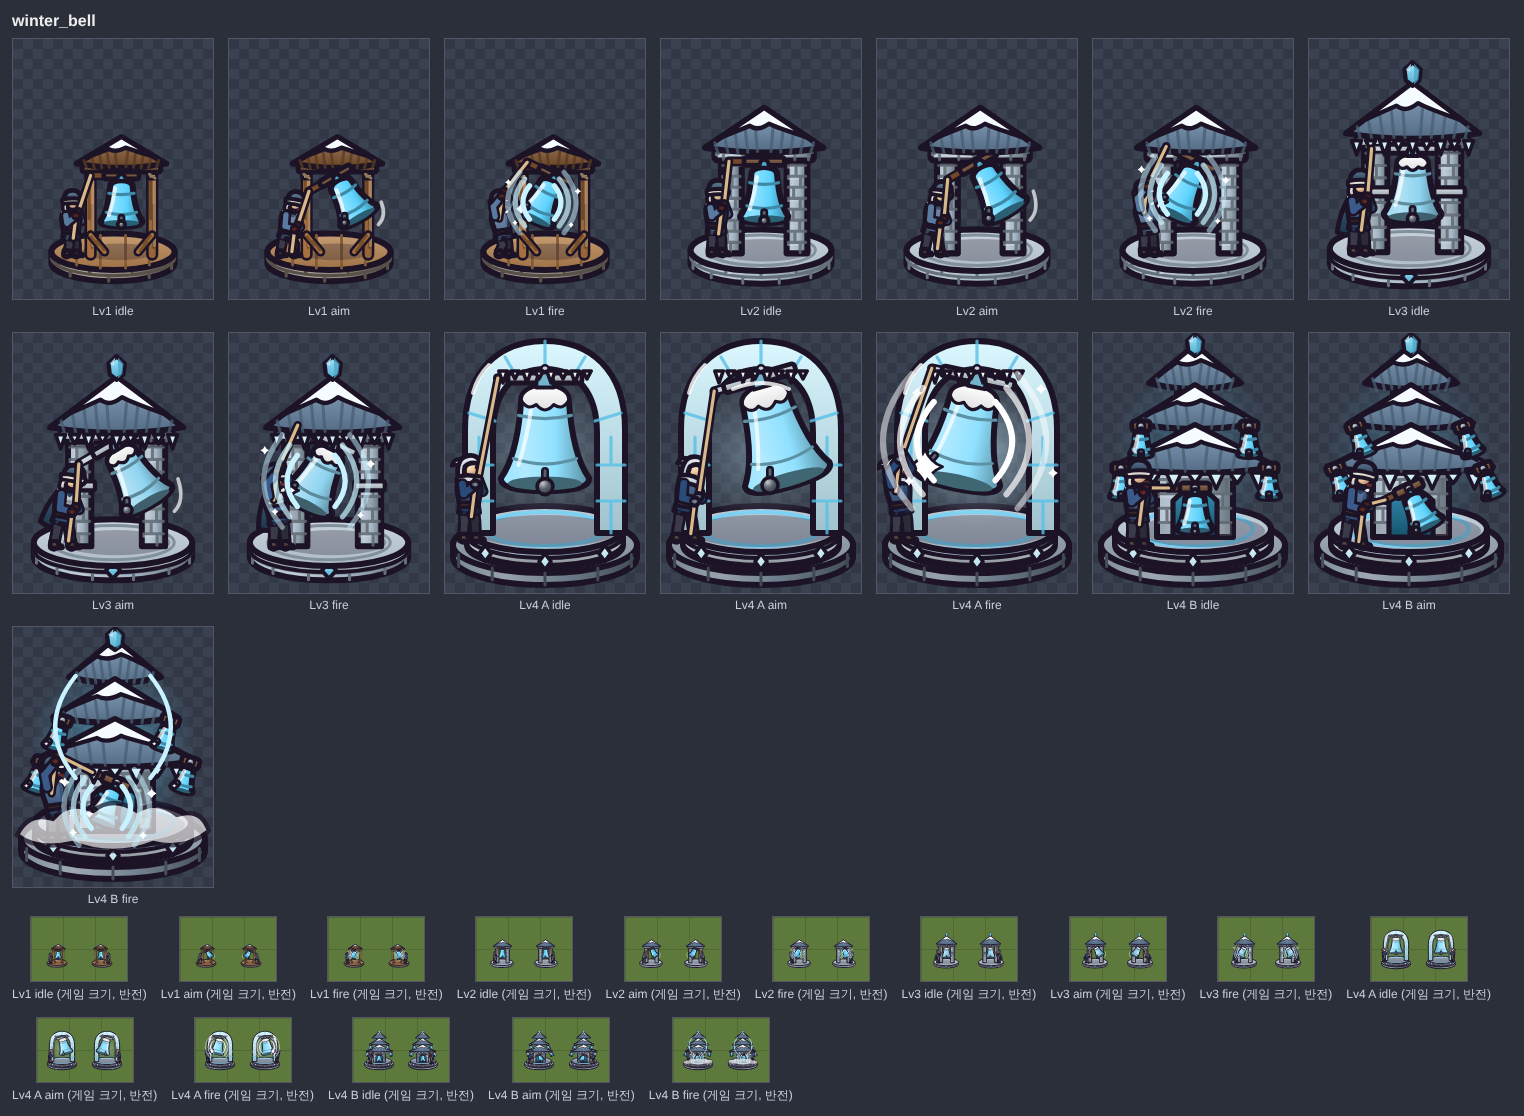
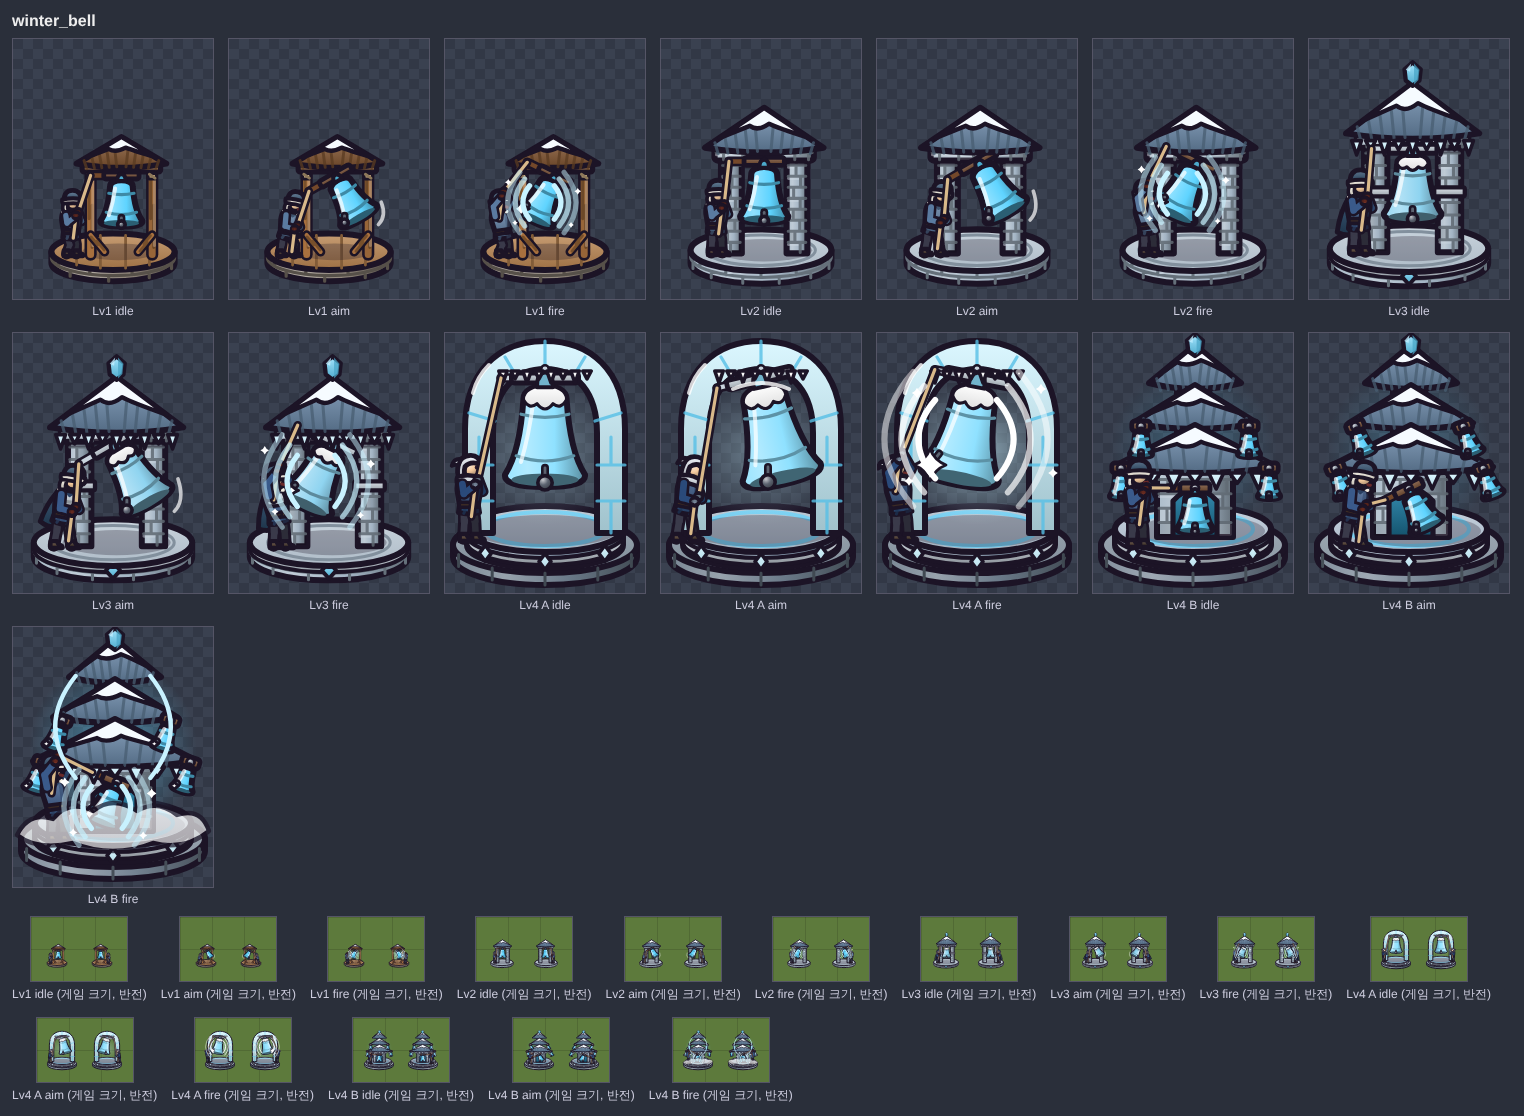
그림 개편 중간 저장
Claude-Session: https://claude.ai/code/session_019NZtTmwD25Z7Uwzm3CtuzC

Changed region(s): [[0.586, 0.3351, 0.6785, 0.457], [0.3084, 0.3351, 0.4009, 0.457], [0.4626, 0.3351, 0.5551, 0.457]]

diff --git a/resonance-guard/js/art/towers-b.js b/resonance-guard/js/art/towers-b.js
@@ -1857,13 +1857,21 @@
       return s;
     };
   }
-  /** 곰덫(쇠 이빨 둘) */
+  /** 쇠 덫(위에서 본 둥근 테 + 안쪽 이빨 + 가운데 발판) */
   function bearTrapB(c, x, y, k, ang = 0, glow = false) {
-    const P = (a, b) => `${f(x + a * k)} ${f(y + b * k)}`;
-    let s = glow ? aura(c, x, y, 9 * k, 7 * k, c.E.color, 0.6) : '';
-    s += c.p(`M${P(-8, 0)}Q${P(0, 6)} ${P(8, 0)}L${P(6, -3)}L${P(4, 0)}L${P(2, -3)}L${P(0, 0)}L${P(-2, -3)}L${P(-4, 0)}L${P(-6, -3)}Z`, c.vg('#dfe5ec', 0.2, -0.25), 1.8);
-    s += c.p(`M${P(-8, 2)}Q${P(0, -4)} ${P(8, 2)}L${P(6, 5)}L${P(4, 2)}L${P(2, 5)}L${P(0, 2)}L${P(-2, 5)}L${P(-4, 2)}L${P(-6, 5)}Z`, c.vg('#aab4c2', 0.2, -0.25), 1.8);
-    s += c.ci(x, y + 1 * k, 1.6 * k, c.E.color, 1);
+    const E = c.E;
+    let teeth = '';
+    for (let i = 0; i < 8; i++) {
+      const a = i * 45 + 22;
+      const p0 = [x + Math.cos(a * RAD) * 6.2 * k, y + Math.sin(a * RAD) * 4 * k];
+      const p1 = [x + Math.cos((a - 12) * RAD) * 6.4 * k, y + Math.sin((a - 12) * RAD) * 4.2 * k];
+      const p2 = [x + Math.cos((a + 12) * RAD) * 6.4 * k, y + Math.sin((a + 12) * RAD) * 4.2 * k];
+      teeth += `M${pp(p1)}L${pp(mix2(p0, [x, y], 0.45))}L${pp(p2)}Z`;
+    }
+    let s = glow ? aura(c, x, y, 10 * k, 7 * k, E.color, 0.65) : '';
+    s += c.e(x, y, 7 * k, 4.6 * k, 'none', 0, ` stroke="${OL}" stroke-width="${c.sw(4.6)}"`) + c.e(x, y, 7 * k, 4.6 * k, 'none', 0, ` stroke="#dfe5ec" stroke-width="${c.sw(2.2)}"`);
+    s += c.p(teeth, '#c3cbd6', 1) + c.e(x, y, 2.6 * k, 1.8 * k, c.sg(E.color), 1.4);
+    s += c.ln(`M${f(x - 5 * k)} ${f(y - 2.6 * k)}Q${f(x)} ${f(y - 4.6 * k)} ${f(x + 5 * k)} ${f(y - 2.6 * k)}`, '#fff', 1, 0.8);
     return ang ? rotG(s, ang, [x, y]) : s;
   }
   /** 톱니 칼날 덫(4B) */
@@ -1909,10 +1917,10 @@
     // 망토(등 뒤로 늘어짐)
     const cape = c.p(`M${pp(F.sh[0])}Q${f(x - 10)} ${f(y + 2)} ${f(x - 8 + by(pose, 0, -3, -6))} ${f(y + 12)}L${f(x - 1)} ${f(y + 10)}Q${f(x - 2)} ${f(y)} ${pp(F.neck)}Z`, c.vg('#3a2c4e', 0.2, -0.25), 2.2) + c.ln(`M${pp(F.sh[0])}Q${f(x - 10)} ${f(y + 2)} ${f(x - 8 + by(pose, 0, -3, -6))} ${f(y + 12)}`, '#8a78b0', 1, 0.8);
     // 허리에 찬 여분 덫(2단계부터)
-    const spare = tier === 1 ? '' : bearTrapB(c, x - 2.5, y + 3.5, 0.42, 80);
+    const spare = '';
     let held = '';
     let fx = '';
-    if (pose !== 'fire') held = trapFn(P.hF[0] + (pose === 'aim' ? -3 : 1.5), P.hF[1] + (pose === 'aim' ? -4 : 4), pose === 'aim' ? -40 : 90);
+    if (pose !== 'fire') held = trapFn(P.hF[0] + (pose === 'aim' ? -3 : 2), P.hF[1] + (pose === 'aim' ? -4 : 5), pose === 'aim' ? -30 : 70);
     else {
       const t = [P.hF[0] + 9, P.hF[1] - 4];
       fx = c.ln(`M${f(P.hF[0] - 2)} ${f(P.hF[1] + 8)}Q${f(P.hF[0] + 4)} ${f(P.hF[1] - 6)} ${f(t[0] - 4)} ${f(t[1] - 2)}`, '#fff', 1.4, 0.6) + c.ln(`M${f(P.hF[0] - 6)} ${f(P.hF[1] + 4)}Q${f(P.hF[0])} ${f(P.hF[1] - 10)} ${f(t[0] - 6)} ${f(t[1] - 6)}`, c.E.light, 1.2, 0.5) + trapFn(t[0], t[1], 25);
@@ -1933,7 +1941,7 @@
         o += ao(c, 40, 104, 24, 6, 0.55);
         o += aHutB(c, 40, 58, 104, 22, M.plank, '#7a6a4a', M.woodD, 162);
         o += darkDoorB(c, 40, 105, 13, 19, true);
-        o += hunter(c, pose, 72, 95, 1, (x, y, a) => bearTrapB(c, x, y, 0.8, a, pose !== 'idle'));
+        o += hunter(c, pose, 72, 95, 1, (x, y, a) => bearTrapB(c, x, y, 1, a, pose !== 'idle'));
         return o;
       }
       if (v === 2 || v === 3) {
@@ -1947,8 +1955,8 @@
         o += darkDoorB(c, 44, 97, 14, 22, true);
         o += c.ol('M44 42V38', M.iron, 1.4) + aura(c, 44, 34, 6, 6, E.color, 0.8) + c.ci(44, 34, 3.4, c.sg(E.color), 1.8);
         if (L3) o += hexRune(c, 44, 66, 0.75, 2, by(pose, 0, 1, 2)) + runeCircleB(c, 88, 104, 7, 0.8, flash);
-        else o += c.ol('M30 60V66', M.iron, 1.2) + bearTrapB(c, 30, 69, 0.7);
-        o += hunter(c, pose, 74, 96, L3 ? 3 : 2, (x, y, a) => bearTrapB(c, x, y, 0.85, a, pose !== 'idle' || L3));
+        else o += c.ol('M30 60V64', M.iron, 1.2) + bearTrapB(c, 30, 68, 0.6, 80);
+        o += hunter(c, pose, 74, 96, L3 ? 3 : 2, (x, y, a) => bearTrapB(c, x, y, 1.05, a, pose !== 'idle' || L3));
         return o;
       }
       if (v === 'A') {
@@ -1967,7 +1975,7 @@
         o += darkDoorB(c, 42, 93, 14, 22, true);
         o += runeCircleB(c, 18, 104, 8, 0.85, flash) + runeCircleB(c, 64, 108, 7, 0.85, flash);
         const P = hunterPose(pose, 74, 91);
-        o += hunter(c, pose, 74, 91, 'A', (x, y, a) => bearTrapB(c, x, y, 0.95, a, true));
+        o += hunter(c, pose, 74, 91, 'A', (x, y, a) => bearTrapB(c, x, y, 1.1, a, true));
         // 손목에서 덫까지 사슬
         const t = pose === 'fire' ? [P.hF[0] + 9, P.hF[1] - 4] : [P.hF[0] + (pose === 'aim' ? -3 : 1.5), P.hF[1] + (pose === 'aim' ? -4 : 4)];
         const anchor = [56, 70];

diff --git a/resonance-guard/js/art/towers-a.js b/resonance-guard/js/art/towers-a.js
@@ -1736,13 +1736,13 @@
         /* 정적의 종: 두꺼운 얼음 아치 안의 커다란 종(무거워서 조금만 흔들림), 울리면 하얗고 넓은 고요의 고리 */
         let o = plat(c, 4, { stone: '#8ea2b6', trim: M.silver });
         o += footShade(c, 50, 99, 36, 8);
-        const angA = { idle: 0, aim: -16, fire: 12 }[pose];
+        const angA = { idle: 0, aim: -13, fire: 11 }[pose];
         o += aura(c, 50, 60, 42, 36, E.light, pose === 'fire' ? 0.6 : 0.35);
         o += c.p('M10 100V48C10 18 28 4 50 4C72 4 90 18 90 48V100H76V50C76 30 66 18 50 18C34 18 24 30 24 50V100Z', c.vg(E.light, 0.35, -0.2), 3);
         o += c.ln('M10 66H24M76 66H90M10 84H24M76 84H90M12 40L25 44M88 40L75 44M30 12L36 22M70 12L64 22M50 4V18M17 52V66M83 52V66M17 84V100M83 84V100', h.shade(E.color, -0.1), 1.6, 0.8);
         o += c.ln('M14 30Q16 22 22 16', '#ffffff', 2, 0.8);
         o += c.ol('M50 18V22', M.silver, 2.4);
-        const B = swingBell(c, 50, 25, 44, 54, h.mix(E.color, '#ffffff', 0.3), angA, pose, { lever: 6, yoke: M.silver, frost: true });
+        const B = swingBell(c, 50, 25, 40, 52, h.mix(E.color, '#ffffff', 0.3), angA, pose, { lever: 6, yoke: M.silver, frost: true });
         o += B.s;
         o += icicleRow(c, 26, 74, 19, 8, 6, '#ffffff');
         const P = ringer(c, 12, 88, 104, 1, pose, { tunic: '#2a4a7a', headCol: '#e8eef6', head: 'hood', glove: '#9ab0c8', trim: E.light });
@@ -1832,7 +1832,7 @@
     let s = '';
     if (pose === 'aim') {
       s += aura(c, x, y, r * 3.4, r * 3.2, E.color, 0.85);
-      s += zapArc(c, x - r * 2.6, y + r * 0.6, x - r * 0.8, y - r * 0.4, { n: 3, j: 2, w: 1.6, seed: 3 }) + zapArc(c, x + r * 2.6, y + r * 0.2, x + r * 0.9, y - r * 0.5, { n: 3, j: 2, w: 1.6, seed: 5 }) + zapArc(c, x - r * 0.4, y - r * 2.8, x, y - r, { n: 3, j: 2, w: 1.6, seed: 8 });
+      s += zapArc(c, x - r * 2.6, y + r * 0.6, x - r * 0.8, y - r * 0.4, { n: 3, j: 2, w: 1.6, seed: 3 }) + zapArc(c, x + r * 2.6, y + r * 0.2, x + r * 0.9, y - r * 0.5, { n: 3, j: 2, w: 1.6, seed: 5 }) + zapArc(c, x - r * 0.4, y - r * 2.2, x, y - r, { n: 3, j: 2, w: 1.6, seed: 8 });
     } else if (pose === 'idle') s += aura(c, x, y, r * 2.2, r * 2, E.color, 0.55);
     s += orb(c, x, y, r, o.col || COPPER, 2.2);
     if (pose === 'idle') s += spark(c, x + r * 0.9, y - r * 0.9, r * 0.9, E.light, 1.2);
